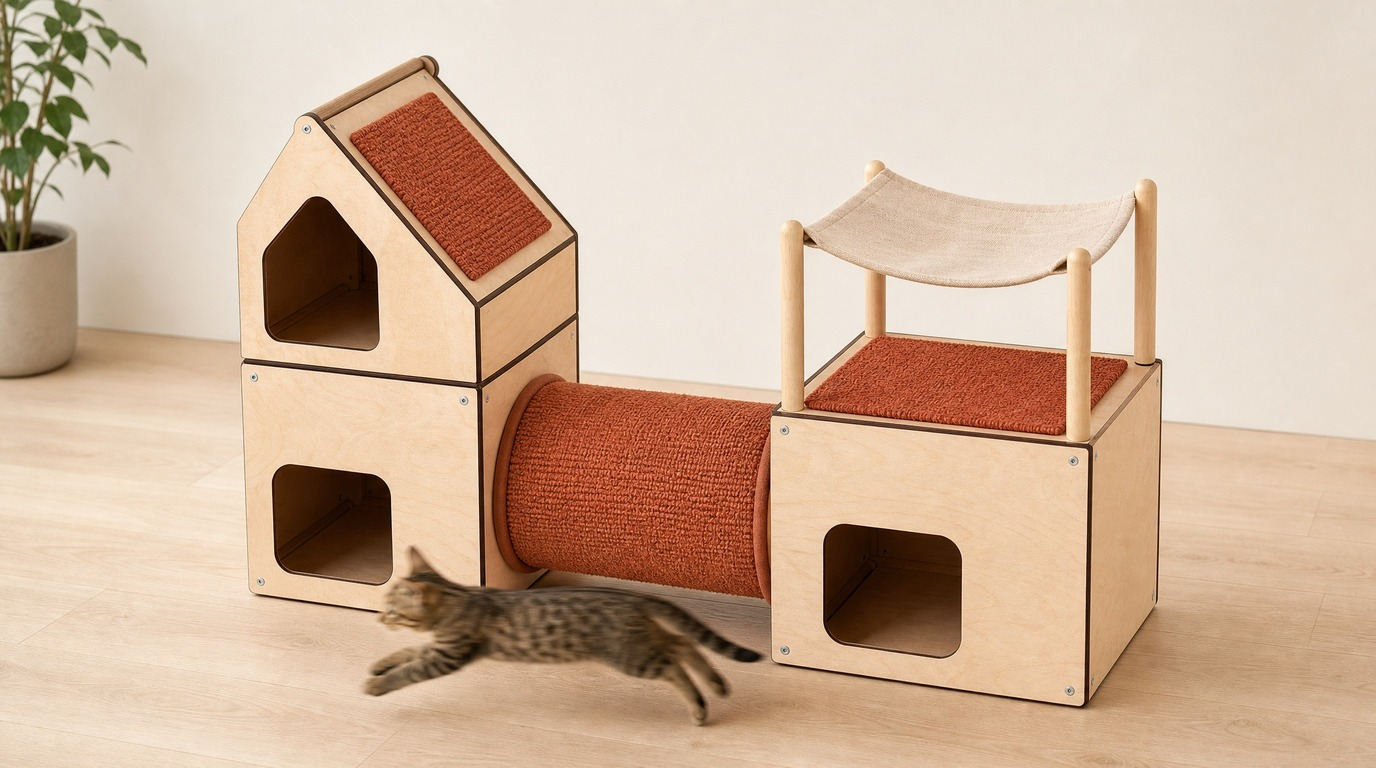
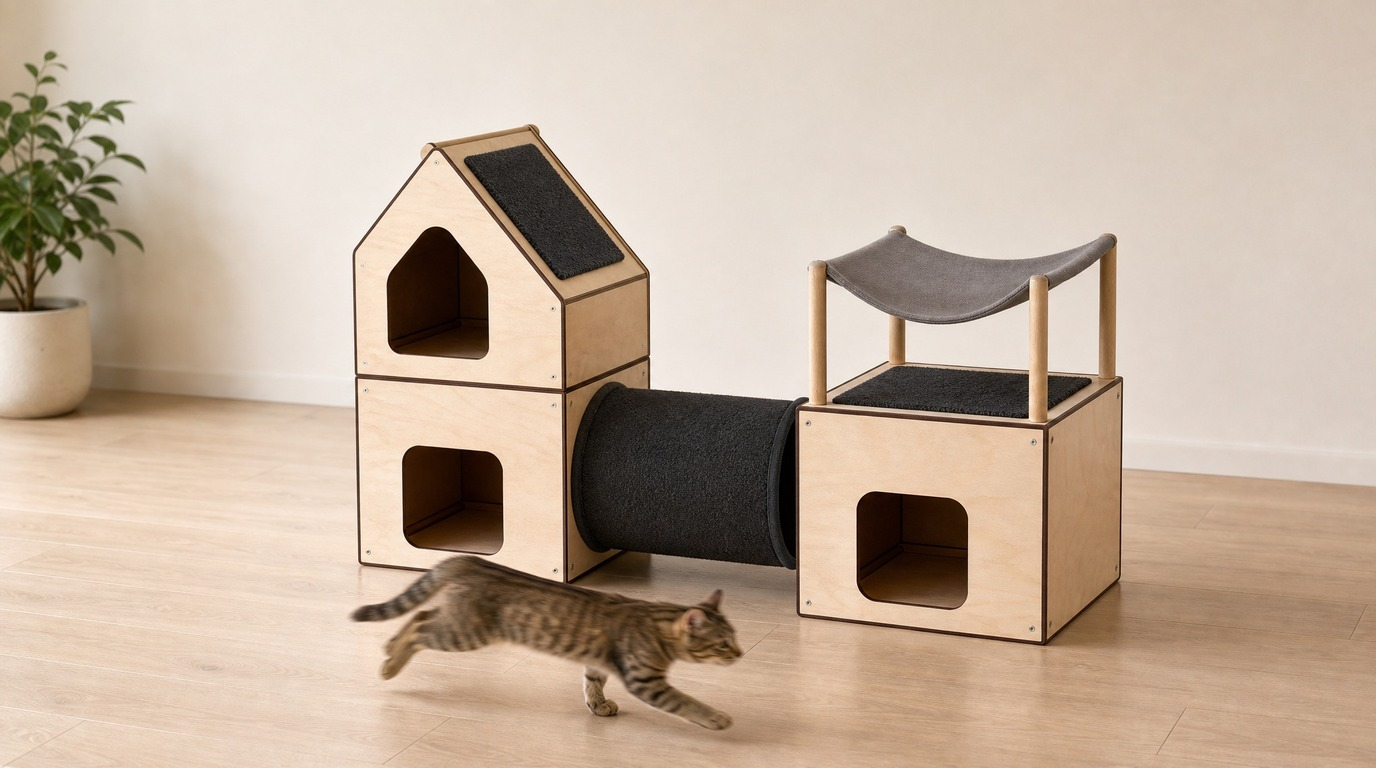
Витрина: масштаб сборки в карточке + кадрирование рендеров, шалфей и графит
Карточки витрины кадрировались «в размер кадра» (object-fit:cover в окне 4:3),
а рендеры снимались фронтально независимо от размера сборки — в сетке
«Новичок» (2 ячейки, 5 220 ₽) выглядел не меньше «Дозорного» (5 ячеек,
26 840 ₽), а у «Резиденции» пандус срезался краем карточки.

- .sc-media: object-fit:contain + переменная --sc-zoom (1.34 = прежний cover,
  1.0 = весь кадр целиком). Поля закрывает та же картинка, увеличенная и
  размытая (::before), — без жёсткого стыка с фоном карточки.
- .sc-card получил data-key, .sc-media — --sc-img с тем же файлом.
- Перекадрированы рендеры: «Новичок» (воздух сверху и снизу, растение в
  правом углу), «Проныра», «Резиденция» — ничего не упирается в край.
- Цветовые варианты коллекций: «Проныра» — графит (charcoal),
  «Дозорный» — шалфей (sage). Сняты через ?collection= в ?solo-референсе,
  поэтому цвет пришёл из картинки, а не только из текста промпта.
- Бамп ассетов ?v→64.

diff --git a/css/style.css b/css/style.css
@@ -161,8 +161,32 @@ button{font-family:inherit}
   overflow:hidden;box-shadow:var(--shadow);
   display:flex;flex-direction:column;
 }
-.sc-media{position:relative;aspect-ratio:4/3;overflow:hidden;background:var(--paper)}
-.sc-media img{width:100%;height:100%;display:block;object-fit:cover}
+.sc-media{position:relative;aspect-ratio:4/3;overflow:hidden;background:var(--paper);--sc-zoom:1.34}
+/* Масштаб сборки в витрине.
+   Рендеры сняты «в размер кадра»: маленький «Новичок» (2 ячейки, 5 220 ₽) занимал
+   столько же места, сколько «Дозорный» (5 ячеек, 26 840 ₽), и в сетке дешёвые
+   сборки выглядели крупнее дорогих. Кадр 16:9 в окне 4:3 обрезается по бокам
+   (object-fit:cover), поэтому масштаб задаём явно: 1.34 — «cover» (обрезка по
+   бокам, максимальный размер), 1.0 — весь кадр целиком с полями сверху/снизу.
+   Значения подобраны по РЕАЛЬНОЙ ширине сборки в ячейках сетки.
+   Поля закрывает та же картинка, увеличенная и размытая, — без жёсткого стыка. */
+.sc-media::before{
+  content:"";position:absolute;inset:0;
+  background:var(--sc-img) center/cover no-repeat;
+  transform:scale(1.35);filter:blur(28px) saturate(.85) brightness(1.05);
+}
+.sc-media img{position:relative;width:100%;height:100%;display:block;object-fit:contain;
+  transform:scale(var(--sc-zoom));transform-origin:center}
+.sc-card[data-key="watch"]   .sc-media{--sc-zoom:1.34}  /* 5 ячеек — эталон */
+.sc-card[data-key="manor"]   .sc-media{--sc-zoom:1.34}  /* 4 ячейки, запас снят в рендере */
+.sc-card[data-key="zoomies"] .sc-media{--sc-zoom:1.34}  /* блок 2×2, высокий */
+.sc-card[data-key="wide"]    .sc-media{--sc-zoom:1.34}  /* 3 ячейки, запас снят в рендере */
+/* «Вальяжный» — вертикальная сборка: кадрируем «в упор» (cover), чтобы домик
+   занял всю высоту карточки и читался высоким рядом с широкими сборками */
+.sc-card[data-key="tower"]   .sc-media{--sc-zoom:1.34}
+/* «Новичок» — запас воздуха уже заложен в самом рендере, поэтому в карточке
+   кадрируем «в упор» (cover): фото занимает всю высоту, без полей */
+.sc-card[data-key="start"]   .sc-media{--sc-zoom:1.34}
 /* три сборки ещё без фотосъёмки — вместо неё мокап с иероглифом темы, честно без притворства */
 /* иероглиф держим в верхней трети: нижняя часть карточки уходит под подпись-стекло */
 .sc-mock{width:100%;height:100%;display:flex;align-items:flex-start;justify-content:center;padding-top:16%;
@@ -704,8 +728,28 @@ section h2{font-size:clamp(22px,3.4vw,30px);margin:10px 0 8px}
 }
 /* aspect-ratio на самом media: три сборки без фото (см. SHOWCASE) кладут сюда
    .sc-mock вместо img, а он высоты не задаёт — контейнер иначе схлопнется */
-.preset-card .pc-media{position:relative;overflow:hidden;aspect-ratio:16/9}
-.preset-card img{width:100%;height:auto;display:block;aspect-ratio:16/9;object-fit:cover}
+.preset-card .pc-media{position:relative;overflow:hidden;aspect-ratio:16/9;--pc-zoom:1}
+/* Масштаб сборки в карточке.
+   Рендеры сняты «в размер кадра»: маленький «Новичок» (2 модуля) занимал столько
+   же места, сколько «Дозорный» (11 модулей), и в сетке дешёвые сборки выглядели
+   крупнее дорогих. Уменьшаем фото пропорционально РЕАЛЬНОМУ размеру сборки —
+   ширине в ячейках сетки: 5 ячеек («Дозорный») = 1, дальше по убыванию.
+   Освободившиеся поля закрывает та же картинка, увеличенная и размытая, —
+   без жёсткого стыка с фоном карточки. */
+.preset-card .pc-media::before{
+  content:"";position:absolute;inset:0;
+  background:var(--pc-img) center/cover no-repeat;
+  transform:scale(1.3);filter:blur(26px) saturate(.85) brightness(1.04);
+}
+.preset-card .pc-media.no-img::before{display:none}
+.preset-card img{position:relative;width:100%;height:auto;display:block;aspect-ratio:16/9;
+  object-fit:cover;transform:scale(var(--pc-zoom));transform-origin:center}
+.preset-card[data-key="start"]   .pc-media{--pc-zoom:.70}  /* 2 ячейки, 5 220 ₽ */
+.preset-card[data-key="tower"]   .pc-media{--pc-zoom:.82}  /* 2 ячейки, но высокая */
+.preset-card[data-key="wide"]    .pc-media{--pc-zoom:.80}  /* 3 ячейки */
+.preset-card[data-key="zoomies"] .pc-media{--pc-zoom:.88}  /* блок 2×2 */
+.preset-card[data-key="manor"]   .pc-media{--pc-zoom:.92}  /* 4 ячейки */
+.preset-card[data-key="watch"]   .pc-media{--pc-zoom:1}    /* 5 ячеек — эталон */
 /* описание поверх фото: «жидкое стекло» проявляется на ховере/фокусе —
    так карточка ниже, и в узкой панели помещается больше сборок */
 .preset-card .pc-hover{

diff --git a/index.html b/index.html
@@ -16,15 +16,15 @@
 <link rel="preload" href="fonts/mplusrounded1c-800-jp.woff2" as="font" type="font/woff2" crossorigin>
 <!-- ?v= на стилях и скриптах: кэш Pages/браузера обновляется вместе с index.html,
      а не живёт своей жизнью до 10 минут после деплоя -->
-<link rel="stylesheet" href="css/fonts.css?v=58">
-<link rel="stylesheet" href="css/style.css?v=58">
-<script defer src="config.js?v=58"></script>
-<script defer src="js/zdog.dist.min.js?v=58"></script>
-<script defer src="js/catalog.js?v=58"></script>
-<script defer src="js/scene.js?v=58"></script>
-<script defer src="js/configurator.js?v=58"></script>
-<script defer src="js/chat.js?v=58"></script>
-<script defer src="js/app.js?v=58"></script>
+<link rel="stylesheet" href="css/fonts.css?v=64">
+<link rel="stylesheet" href="css/style.css?v=64">
+<script defer src="config.js?v=64"></script>
+<script defer src="js/zdog.dist.min.js?v=64"></script>
+<script defer src="js/catalog.js?v=64"></script>
+<script defer src="js/scene.js?v=64"></script>
+<script defer src="js/configurator.js?v=64"></script>
+<script defer src="js/chat.js?v=64"></script>
+<script defer src="js/app.js?v=64"></script>
 </head>
 <body>
 

diff --git a/js/app.js b/js/app.js
@@ -38,7 +38,7 @@ SHOWCASE.forEach(g => {
          onerror="this.closest('.pc-media').classList.add('no-img')">`
     : `<div class="sc-mock"><span>${g.kanji}</span></div>`;
   el.innerHTML = `
-    <div class="pc-media">
+    <div class="pc-media"${g.img ? ` style="--pc-img:url('${g.img}')"` : ""}>
       ${pcMedia}
       <div class="pc-hover">${g.ds}</div>
     </div>
@@ -215,11 +215,12 @@ function buildFromShowcase(key){
 SHOWCASE.forEach(g => {
   const el = document.createElement("div");
   el.className = "sc-card";
+  el.dataset.key = g.preset;
   const media = g.img
     ? `<img src="${g.img}" alt="Сборка ${g.nm} в интерьере" loading="lazy">`
     : `<div class="sc-mock"><span>${g.kanji}</span></div>`;
   el.innerHTML = `
-    <div class="sc-media">
+    <div class="sc-media"${g.img ? ` style="--sc-img:url('${g.img}')"` : ""}>
       ${media}
       <div class="sc-cap">${g.ds}</div>
     </div>
